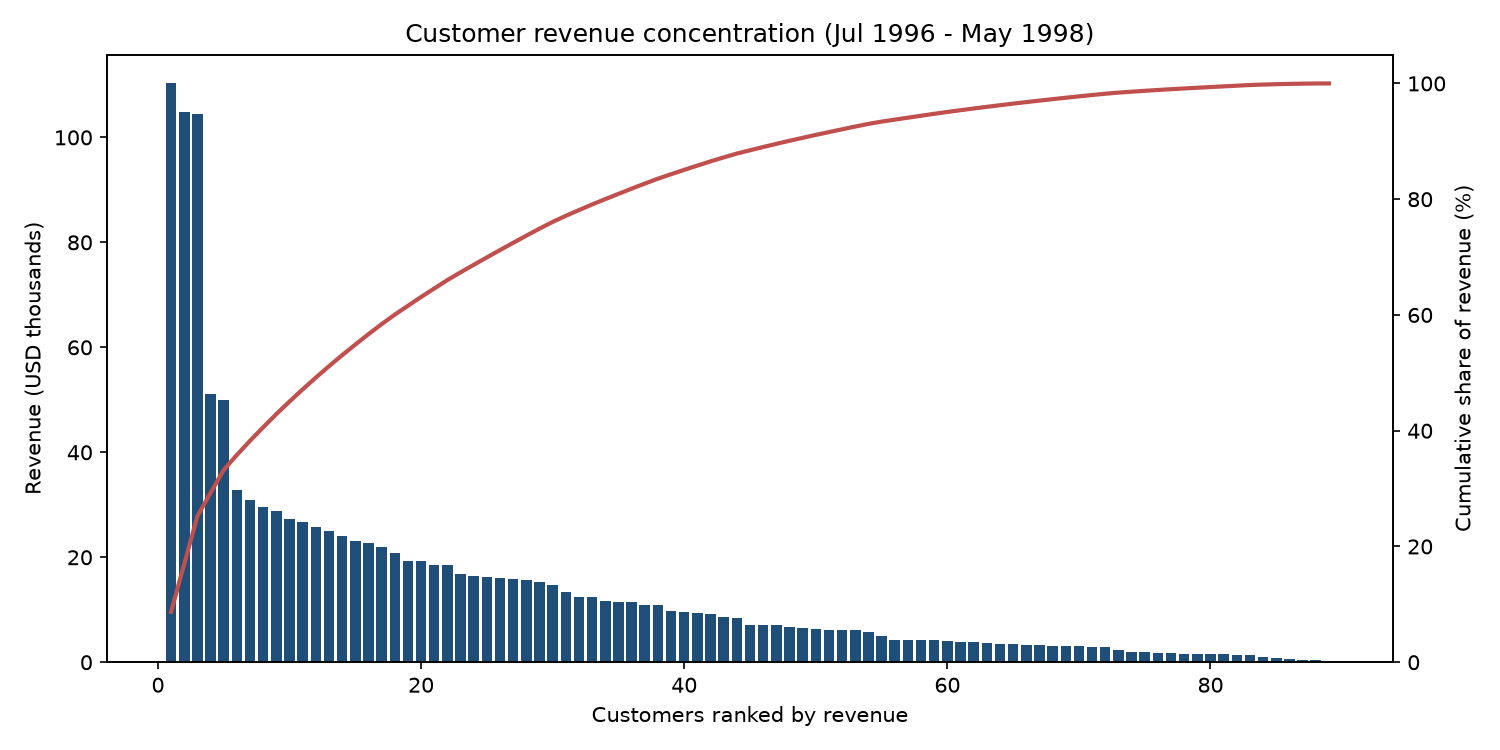
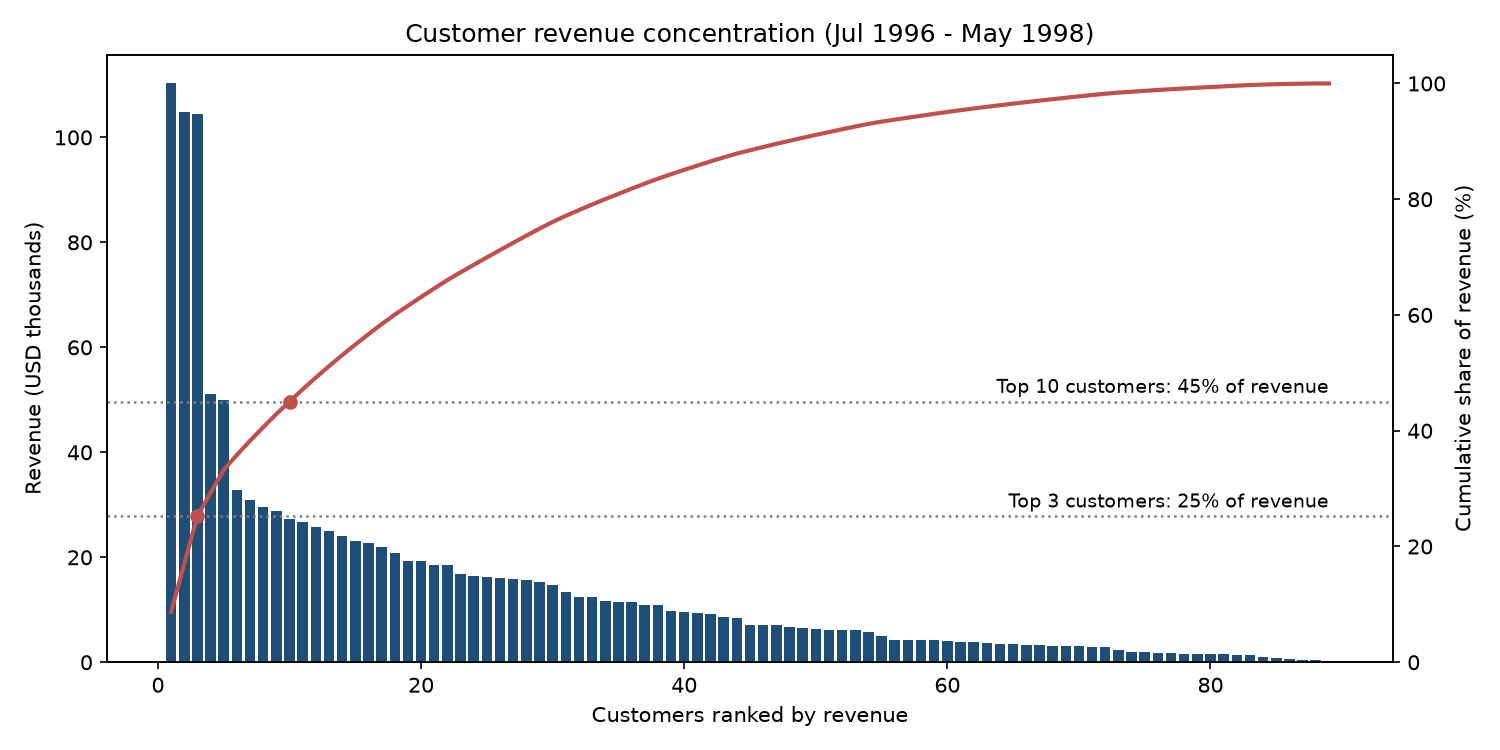
Q3: mark top-3 and top-10 revenue share

diff --git a/analysis.py b/analysis.py
@@ -236,6 +236,11 @@ def customer_concentration(sales):
     ax2.plot(ranks, cumulative, color="#c0504d", linewidth=2)
     ax2.set_ylabel("Cumulative share of revenue (%)")
     ax2.set_ylim(0, 105)
+    for n in (3, 10):
+        top = cumulative.iloc[n - 1]
+        ax2.axhline(top, color="#7f7f7f", linestyle=":", linewidth=1.2)
+        ax2.plot(n, top, "o", color="#c0504d")
+        ax2.text(len(by_customer), top + 1.5, f"Top {n} customers: {top:.0f}% of revenue", fontsize=9, ha="right")
     ax.set_title("Customer revenue concentration (Jul 1996 - May 1998)")
     fig.tight_layout()
     fig.savefig(FIG / "q3_customer_concentration.png", dpi=150)
